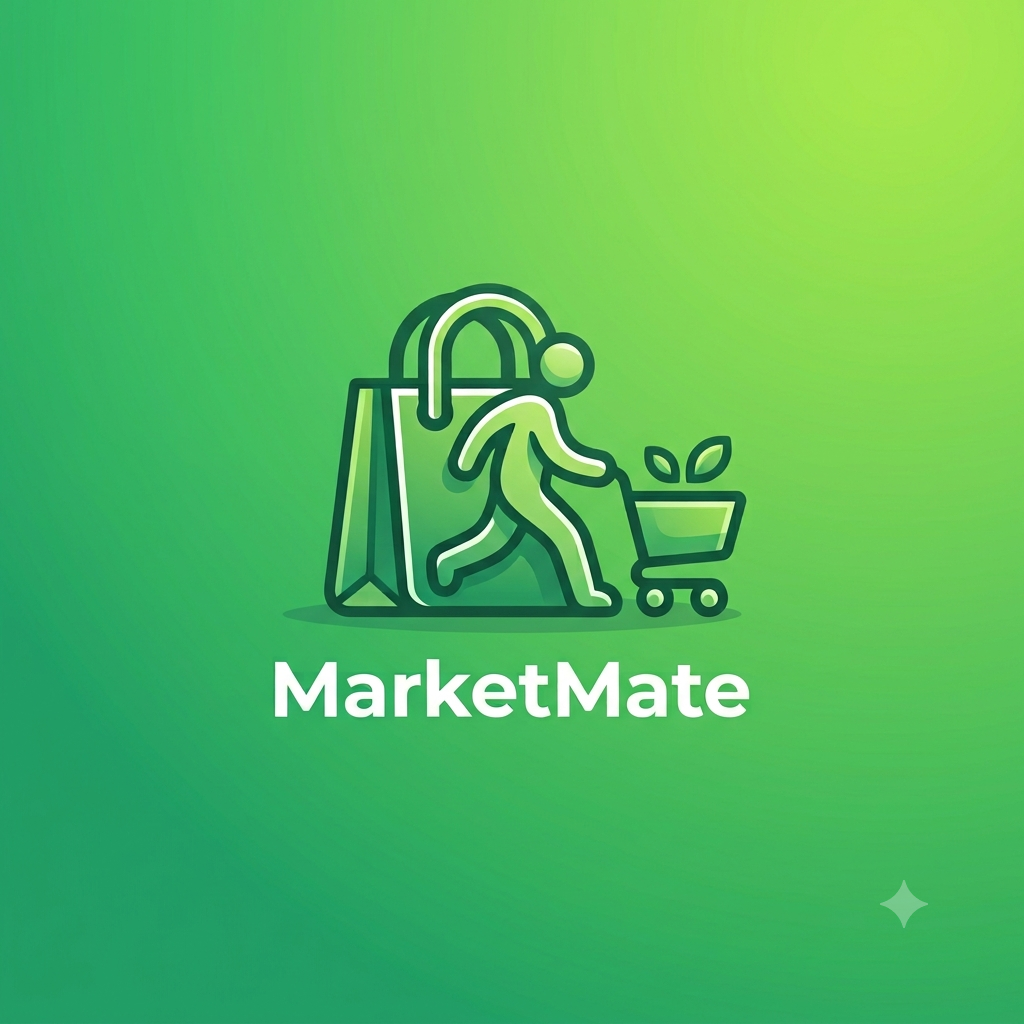
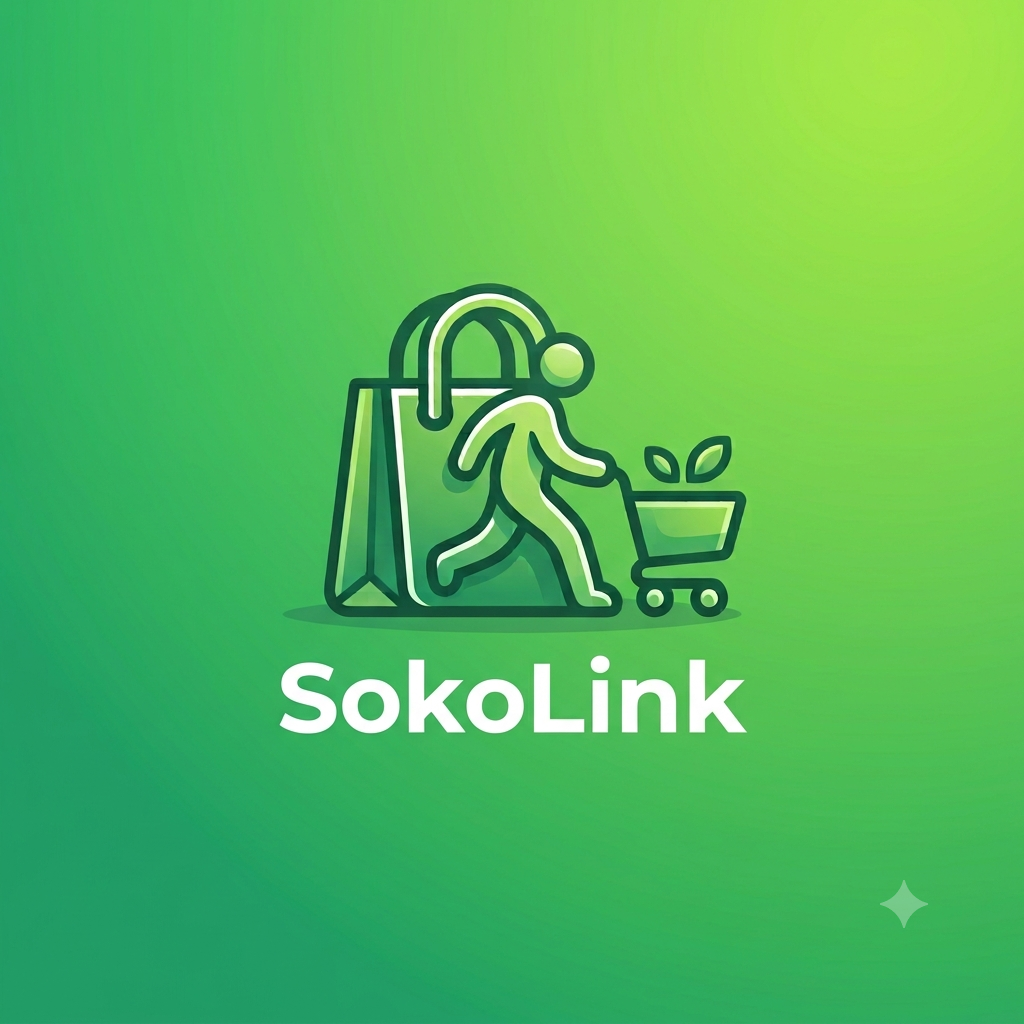
Changed name from MarketMate to SokoLink

Changed region(s): [[0.25, 0.625, 0.75, 0.7188]]

diff --git a/lib/app.dart b/lib/app.dart
@@ -1,8 +1,8 @@
 import 'package:flutter/material.dart';
 import 'features/auth/auth_gate.dart';
 
-class MarketMateApp extends StatelessWidget {
-  const MarketMateApp({super.key});
+class SokoLinkApp extends StatelessWidget {
+  const SokoLinkApp({super.key});
 
   @override
   Widget build(BuildContext context) {
@@ -40,7 +40,7 @@ class MarketMateApp extends StatelessWidget {
       surfaceContainer: const Color(0xFF173324),
     );
     return MaterialApp(
-      title: 'Market Mate',
+      title: 'SokoLink',
       debugShowCheckedModeBanner: false,
       theme: ThemeData(
         colorScheme: lightScheme,

diff --git a/test/widget_test.dart b/test/widget_test.dart
@@ -7,14 +7,14 @@
 
 import 'package:flutter_test/flutter_test.dart';
 import 'package:flutter_riverpod/flutter_riverpod.dart';
-import 'package:market_mate/app.dart';
+import 'package:sokko_link/app.dart';
 
 void main() {
   testWidgets('App starts', (WidgetTester tester) async {
     await tester.pumpWidget(
-      const ProviderScope(child: MarketMateApp()),
+      const ProviderScope(child: SokoLinkApp()),
     );
 
-    expect(find.byType(MarketMateApp), findsOneWidget);
+    expect(find.byType(SokoLinkApp), findsOneWidget);
   });
 }

diff --git a/web/index.html b/web/index.html
@@ -23,13 +23,13 @@
   <!-- iOS meta tags & icons -->
   <meta name="mobile-web-app-capable" content="yes">
   <meta name="apple-mobile-web-app-status-bar-style" content="black">
-  <meta name="apple-mobile-web-app-title" content="Market Mate">
+  <meta name="apple-mobile-web-app-title" content="SokoLink">
   <link rel="apple-touch-icon" href="icons/Icon-192.png">
 
   <!-- Favicon -->
   <link rel="icon" type="image/png" href="favicon.png"/>
 
-  <title>Market Mate</title>
+  <title>SokoLink</title>
   <link rel="manifest" href="manifest.json">
 </head>
 <body>

diff --git a/android/app/src/main/kotlin/com/azure/market_mate/MainActivity.kt b/android/app/src/main/kotlin/com/azure/market_mate/MainActivity.kt
@@ -1,4 +1,4 @@
-package com.azure.market_mate
+package com.azure.sokko_link
 
 import io.flutter.embedding.android.FlutterActivity
 

diff --git a/lib/core/database/app_database.dart b/lib/core/database/app_database.dart
@@ -423,5 +423,5 @@ LazyDatabase _openConnection() => LazyDatabase(() async {
       final dir = await getApplicationSupportDirectory();
       if (!await dir.exists()) await dir.create(recursive: true);
       return NativeDatabase.createInBackground(
-          File(p.join(dir.path, 'market_mate.sqlite')));
+          File(p.join(dir.path, 'sokko_link.sqlite')));
     });

diff --git a/lib/features/auth/auth_gate.dart b/lib/features/auth/auth_gate.dart
@@ -120,7 +120,7 @@ class _RegistrationScreenState extends ConsumerState<RegistrationScreen> {
                                     color:
                                         Theme.of(context).colorScheme.primary),
                                 const SizedBox(height: 12),
-                                Text('Set up Market Mate',
+                                Text('Set up SokoLink',
                                     style: Theme.of(context)
                                         .textTheme
                                         .headlineMedium,

diff --git a/lib/main.dart b/lib/main.dart
@@ -13,5 +13,5 @@ Future<void> main() async {
       publishableKey: AppConfig.supabasePublishableKey,
     );
   }
-  runApp(const ProviderScope(child: MarketMateApp()));
+  runApp(const ProviderScope(child: SokoLinkApp()));
 }

diff --git a/linux/runner/my_application.cc b/linux/runner/my_application.cc
@@ -45,11 +45,11 @@ static void my_application_activate(GApplication* application) {
   if (use_header_bar) {
     GtkHeaderBar* header_bar = GTK_HEADER_BAR(gtk_header_bar_new());
     gtk_widget_show(GTK_WIDGET(header_bar));
-    gtk_header_bar_set_title(header_bar, "Market Mate");
+    gtk_header_bar_set_title(header_bar, "SokoLink");
     gtk_header_bar_set_show_close_button(header_bar, TRUE);
     gtk_window_set_titlebar(window, GTK_WIDGET(header_bar));
   } else {
-    gtk_window_set_title(window, "Market Mate");
+    gtk_window_set_title(window, "SokoLink");
   }
 
   gtk_window_set_default_size(window, 1280, 720);

diff --git a/windows/runner/main.cpp b/windows/runner/main.cpp
@@ -27,7 +27,7 @@ int APIENTRY wWinMain(_In_ HINSTANCE instance, _In_opt_ HINSTANCE prev,
   FlutterWindow window(project);
   Win32Window::Point origin(10, 10);
   Win32Window::Size size(1280, 720);
-  if (!window.Create(L"Market Mate", origin, size)) {
+  if (!window.Create(L"SokoLink", origin, size)) {
     return EXIT_FAILURE;
   }
   window.SetQuitOnClose(true);